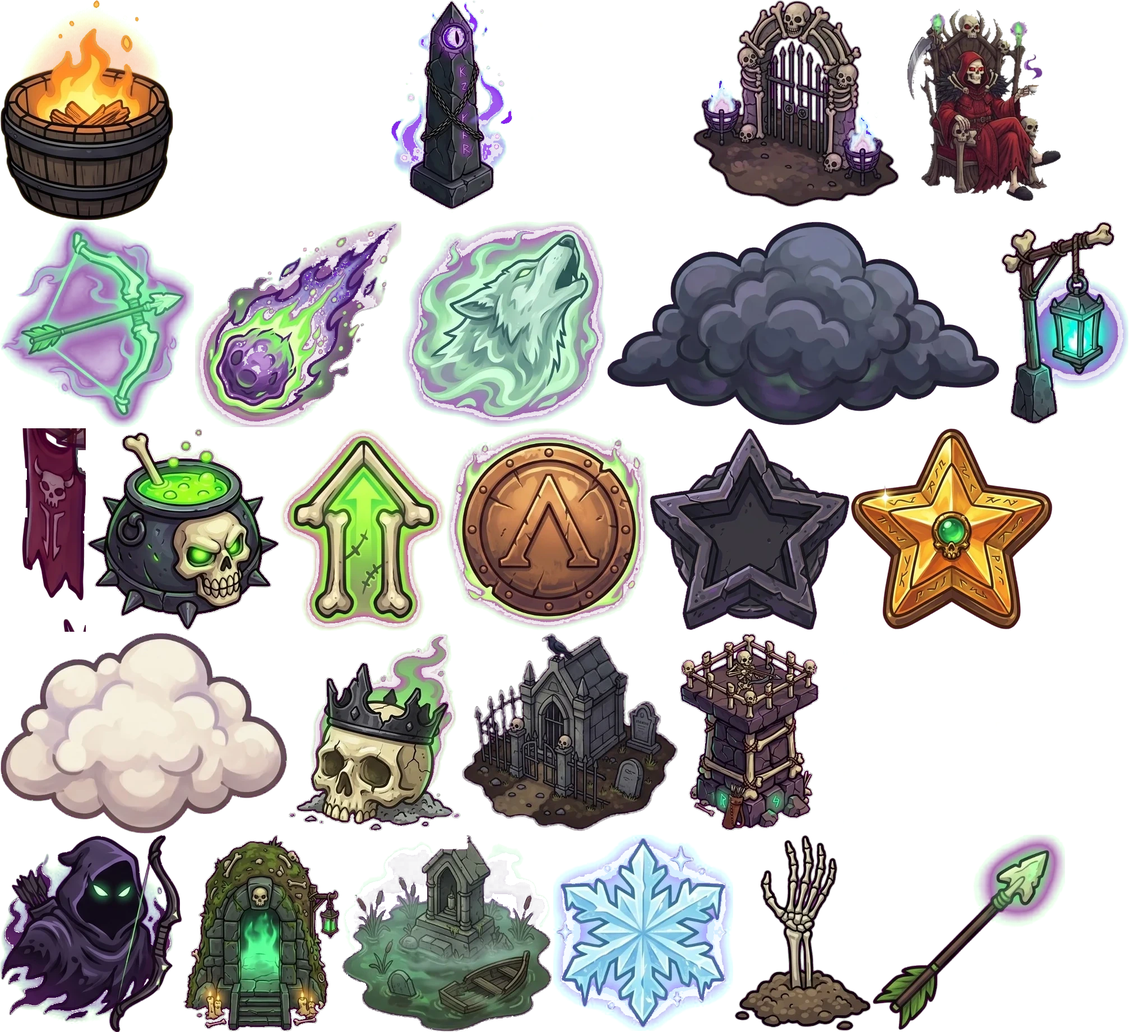
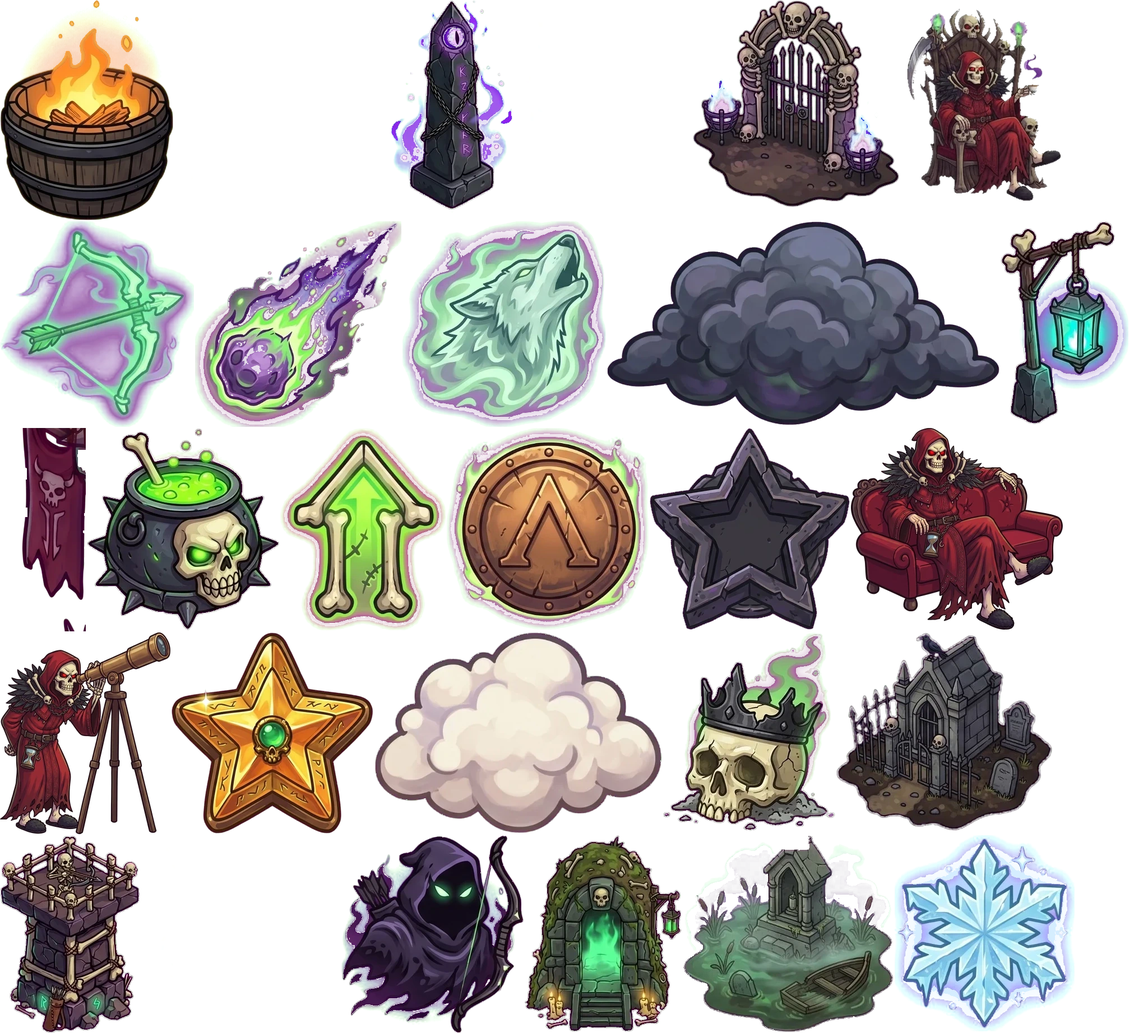
Mortimer balkonda: kırmızı koltukta keyif ve teleskopla gözetleme (Gemini, atlasta), sakin anlarda poz değiştirir (yayın 771)

diff --git a/sinir-kalesi/js/game.js b/sinir-kalesi/js/game.js
@@ -6968,6 +6968,29 @@ function updateMortState(dt) {
   else if (M.st === 'up' && M.t > MORT_TRANS) { M.st = M.leave ? 'goin' : 'panic'; M.t = 0; M.leave = false; }
   else if (M.st === 'panic' && M.calm > 3) { M.st = M.quiet > 6 ? 'goin' : 'down'; M.t = 0; }
   else if (M.st === 'down' && M.t > MORT_TRANS) { M.st = 'tea'; M.t = 0; }
+  mortPoseUpdate(M, dt);
+}
+// 18 Eki (Caner: "Mortimer yeni evin balkonunda kırmızı koltukta otururken ve teleskoptan düşmana bakarken"): sakin anlarda poz değiştirir.
+// Düşman yoldayken (uzakta) teleskopla gözetler, ortalık boşken koltukta keyif yapar; tehlike, büyü ya da ağır hasarda hemen ayağa kalkar.
+// Görseller kaledeki koltuğun / teleskopun yerine oturur (img/mortimer_pose_koltuk, _teleskop, atlasta; varliklar/mortimer_balkon_isle.py).
+// fx, fy: kale görselinde dayanak noktası (kesir), ax, ay: görselin kendi dayanağı (kesir), hk: boy / kale görseli boyu. Yalnız v5 1-2. evrede.
+const MORT_POSE = { sofa: { im: 'mortimer_pose_koltuk', fx: 0.673, fy: 0.539, ax: 0.48, ay: 0.875, hk: 106 / 1025 },
+  scope: { im: 'mortimer_pose_teleskop', fx: 667 / 760, fy: 539 / 1025, ax: 0.47, ay: 0.36, hk: 150 / 1025 }, fade: 0.35, dur: [9, 16] };
+function mortPoseOk(k) { const im = castleStageSprite(); return !!(spr(MORT_POSE[k].im) && im && (im === spr('castle_keep_1') || im === spr('castle_keep_2'))); }
+function mortPoseUpdate(M, dt) {
+  M.pose = M.pose || 'stand'; M.poseA = Math.min(1, (M.poseA ?? 1) + dt / MORT_POSE.fade);
+  const set = (k) => { if (k !== M.pose) { M.poseOld = M.pose; M.pose = k; M.poseA = 0; } };
+  if (M.st !== 'tea' || G.mortCast > 0 || G.mortMood || (M.pose !== 'stand' && !mortPoseOk(M.pose))) { if (M.pose !== 'stand') { set('stand'); M.poseA = 1; } M.poseT = 3; return; }
+  if ((M.poseT = (M.poseT ?? 4) - dt) > 0) return;
+  const D = MORT_POSE.dur; M.poseT = rand(D[0], D[1]);
+  const foes = G.enemies.some(e => !e.dead && e.d > 0), r = Math.random();
+  set(foes ? (r < 0.6 && mortPoseOk('scope') ? 'scope' : 'stand') : (r < 0.6 && mortPoseOk('sofa') ? 'sofa' : r < 0.75 && mortPoseOk('scope') ? 'scope' : 'stand'));
+}
+function drawMortPose(k, a) {
+  const P = MORT_POSE[k], im = spr(P.im), ci = castleStageSprite(); if (!im || !ci || a <= 0) return;
+  const c = G.castle, cp = castlePlace(c.x, c.y, ci), h = cp.w * ci.height / ci.width, dh = P.hk * h, dw = dh * im.width / im.height;
+  const x = cp.x - cp.w / 2 + P.fx * cp.w, y = cp.y - h + P.fy * h, br = k === 'sofa' ? Math.sin(time * 1.4) * 0.008 : Math.sin(time * 1.1) * 0.006; // hafif nefes
+  ctx.save(); ctx.globalAlpha *= a; ctx.translate(x, y + dh * (1 - P.ay)); ctx.scale(1, 1 + br); ctx.drawImage(im, -P.ax * dw, -dh, dw, dh); ctx.restore();
 }
 const mortStrip = (n) => (ANIM_META[n] && spr(n) ? n : (ANIM_META[n] && loadStrip(n), null)); // yüklü değilse yükletir (haritada çay)
 // 15 Eki: ruh hali animasyonları (Veo, tek seferlik): kale vurulunca öfke (ayak vurur, yumruk sallar). MORT_MOOD: kare/sn, tekrar bekleme (sn)
@@ -7031,6 +7054,14 @@ function drawMortimer() {
   const MS = G.mort && G.mort.st;
   if (MS === 'in') return;
   if (MS === 'out' || MS === 'goin') { drawMortDoor(); return; }
+  { const M = G.mort; if (M && M.pose && (M.pose !== 'stand' || (M.poseA < 1 && M.poseOld && M.poseOld !== 'stand'))) { // 18 Eki: koltukta / teleskopta
+      if (M.pose !== 'stand') drawMortPose(M.pose, M.poseA);
+      if (M.poseA < 1 && M.poseOld && M.poseOld !== 'stand') drawMortPose(M.poseOld, 1 - M.poseA);
+      if (M.pose !== 'stand') { if (M.poseA < 1 && M.poseOld === 'stand') { ctx.save(); ctx.globalAlpha *= 1 - M.poseA; drawMortimer0(); ctx.restore(); } return; }
+      ctx.save(); ctx.globalAlpha *= M.poseA; drawMortimer0(); ctx.restore(); return; } }
+  drawMortimer0();
+}
+function drawMortimer0() {
   const m = mortimerPoint(), hgt = m.h, p = G.mortCast > 0 ? clamp(1 - G.mortCast / (G.mortCastT || MORT_CAST_T), 0, 1) : -1;
   if (p >= MORT_RAISE.flash && G.mortCastN === 'mortimer_dirilt' && !G.mortFlash) { // videodaki tam ekran patlama kesildi: yerine kodla yeşil patlama
     G.mortFlash = true; G.effects.push({ kind: 'ring', x: m.x, y: m.y - 2, r: hgt * 0.9, col: '130,255,140', t: 0, dur: 0.45 });
@@ -22602,7 +22633,7 @@ window.__game = {
   goScreen: (n) => { screen = n; screenT = time; }, setOv: (o) => { overlay = o; overlayT = time; }, // test: ekran / pencere aç (ekran görüntüsü taraması)
   goMap: () => { screen = 'map'; screenT = time; }, mapCam: MAPCAM, mapFx: MAPFX, zfire: () => fireZoneItem(G.zitem), sprOk: (n) => ({ spr: !!SPR[n], meta: !!ANIM_META[n], lazy: LAZY[n] || null, wait: STRIP_WAIT.has(n) }), /* test: şerit durumu */ waveBtn: (pi = 0) => { const b = waveBtnScreen(pi); return { x: view.ox + b.x * view.scale, y: view.oy + b.y * view.scale }; }, // test: dalga düğmesinin sayfadaki yeri
   goPlay: (i = 0) => go(() => startLevel(i)), ult: (x, y) => castUlt(G.heroes[0], x, y), /* test: komutan gücü */ // test: geçişli bölüm başlatma
-  card: (i) => { screen = 'map'; mapSel = i; mapSelT = time; }, goHeroes: () => { screen = 'heroes'; screenT = time; }, goUpgrades: () => { screen = 'upgrades'; screenT = time; },   goCodex: () => { screen = 'codex'; screenT = time; CODEX.t0 = time; }, goSettings: () => openSettings('map'), hitTower: (i, d) => G.plots[i].tower && damageTower(G.plots[i].tower, d), // test: kule yıkılması
+  card: (i) => { screen = 'map'; mapSel = i; mapSelT = time; }, goHeroes: () => { screen = 'heroes'; screenT = time; }, goUpgrades: () => { screen = 'upgrades'; screenT = time; },   goCodex: () => { screen = 'codex'; screenT = time; CODEX.t0 = time; }, goSettings: () => openSettings('map'), mortPose: (k) => { const M = G.mort || (G.mort = { st: 'tea', t: 0, calm: 0, quiet: 0 }); M.st = 'tea'; M.calm = 99; M.quiet = 0; M.poseOld = M.pose; M.pose = k; M.poseA = 1; M.poseT = 999; }, hitTower: (i, d) => G.plots[i].tower && damageTower(G.plots[i].tower, d), // test: kule yıkılması
    surS: () => G.sur, surTap: (i) => { const S = G.sur, o = S.o[i]; if (S.def.tap && o) S.def.tap(S, o); }, surTapAt: (x, y) => tapSurprise(x, y), // test: bölüm sürprizi
   codexSel: (id, tab = 'e') => { CODEX.tab = tab; CODEX.sel[tab] = id; CODEX.t0 = time - 2; }, codexList: () => CODEX_ENEMIES.slice(), codex: CODEX, goAch: () => { screen = 'ach'; screenT = time; }, goScreen: (n) => { screen = n; screenT = time; } /* test: herhangi bir ekran */, achGive, cnt, mapfx: MAPFX, mapcam: MAPCAM, buildCost, upCost, // test: harita kamerası
   logo: () => titleLogo(), // test: logo tuvali (yakından bakmak için)

diff --git a/sinir-kalesi/index.html b/sinir-kalesi/index.html
@@ -17,7 +17,7 @@
 <canvas id="game" aria-label="Sınır Kalesi oyun alanı"></canvas>
 <script>
   // Sürüm damgası: her yayında artırılır; tarayıcı eski önbellek kopyasını kullanmaz (js ve görseller).
-  window.SURUM = '770';
+  window.SURUM = '771';
   // dil: kayıtlı seçim (yoksa Türkçe); tr/en dışındakiler için çeviri sözlüğü dil.js'ten önce yüklenir
   window.__dilYukle = (function () {
     var l = null; try { l = localStorage.getItem('sinirKalesi.lang'); } catch (e) {}

diff --git a/sinir-kalesi/yayin.html b/sinir-kalesi/yayin.html
@@ -11,7 +11,7 @@
 <canvas id="game" aria-label="Sınır Kalesi oyun alanı"></canvas>
 <script>
   // Sürüm damgası: her yayında artırılır; tarayıcı eski önbellek kopyasını kullanmaz (js ve görseller).
-  window.SURUM = '770';
+  window.SURUM = '771';
   // dil: kayıtlı seçim (yoksa Türkçe); tr/en dışındakiler için çeviri sözlüğü dil.js'ten önce yüklenir
   window.__dilYukle = (function () {
     var l = null; try { l = localStorage.getItem('sinirKalesi.lang'); } catch (e) {}

diff --git a/varliklar/mortimer_balkon_isle.py b/varliklar/mortimer_balkon_isle.py
@@ -1,0 +1,20 @@
+"""Mortimer balkonda (18 Eki, Caner: "yeni evin balkonunda kırmızı koltukta otururken ve teleskoptan düşmana bakarken"): Gemini, beyaz zemin.
+ham/nm39_mortimer_koltuk.jpg -> img/mortimer_pose_koltuk.webp, ham/nm39_mortimer_teleskop.jpg -> img/mortimer_pose_teleskop.webp (atlasa girer) (eşyasıyla birlikte;
+oyunda kaledeki koltuğun / teleskopun yerine oturur, kalenin eşyasını örter). Beyaz zemin kale_v5_isle.beyaz_sil ile; kenar serit_temizle.kare ile.
+    .venv/bin/python3 varliklar/mortimer_balkon_isle.py [koltuk|teleskop]"""
+import os, sys, json
+import numpy as np
+from PIL import Image
+D = os.path.dirname(os.path.abspath(__file__)); IMG = os.path.join(D, '..', 'sinir-kalesi', 'img'); sys.path.insert(0, D)
+src = open(os.path.join(D, 'kale_v5_isle.py')).read(); ns = {'__file__': os.path.join(D, 'kale_v5_isle.py')}
+exec(src[src.index('import os'):src.index('new = beyaz_sil(')], ns)
+import serit_temizle
+for k in (sys.argv[1:] or ['koltuk', 'teleskop']):
+    p = os.path.join(D, 'ham', f'nm39_mortimer_{k}.jpg')
+    if not os.path.exists(p): print('yok', p); continue
+    a = ns['beyaz_sil'](np.asarray(Image.open(p).convert('RGB')))
+    ys, xs = np.nonzero(a[..., 3] > 20); a = a[ys.min():ys.max() + 1, xs.min():xs.max() + 1]
+    im = Image.fromarray(a); s = 360 / im.height; im = im.resize((round(im.width * s), 360), Image.LANCZOS)
+    im = Image.fromarray(serit_temizle.kare(np.asarray(im), 'mortimer_' + k))
+    im.save(os.path.join(IMG, f'mortimer_pose_{k}.webp'), 'WEBP', quality=90, method=6); print(k, im.size)
+    m = json.load(open(os.path.join(IMG, 'meta.json'))); m[f'mortimer_pose_{k}'] = [im.width, im.height]; json.dump(m, open(os.path.join(IMG, 'meta.json'), 'w'))
